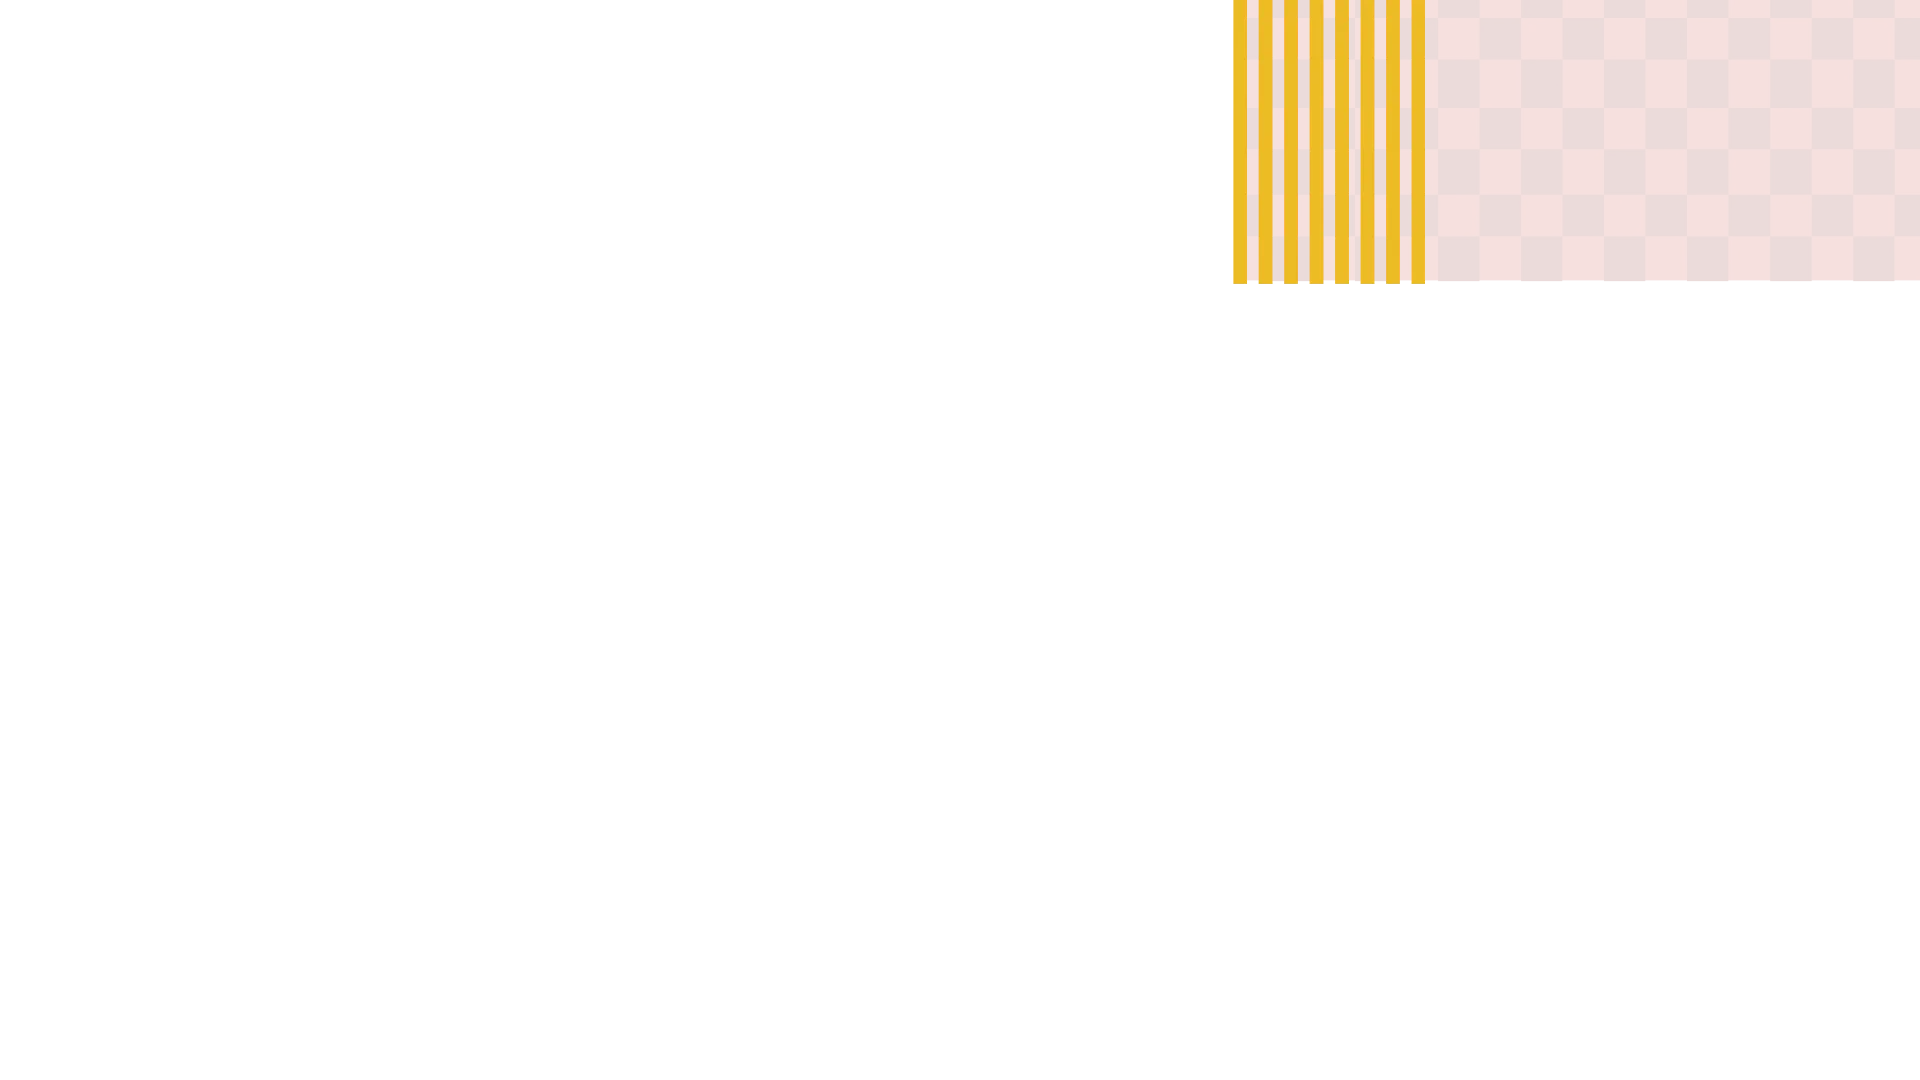
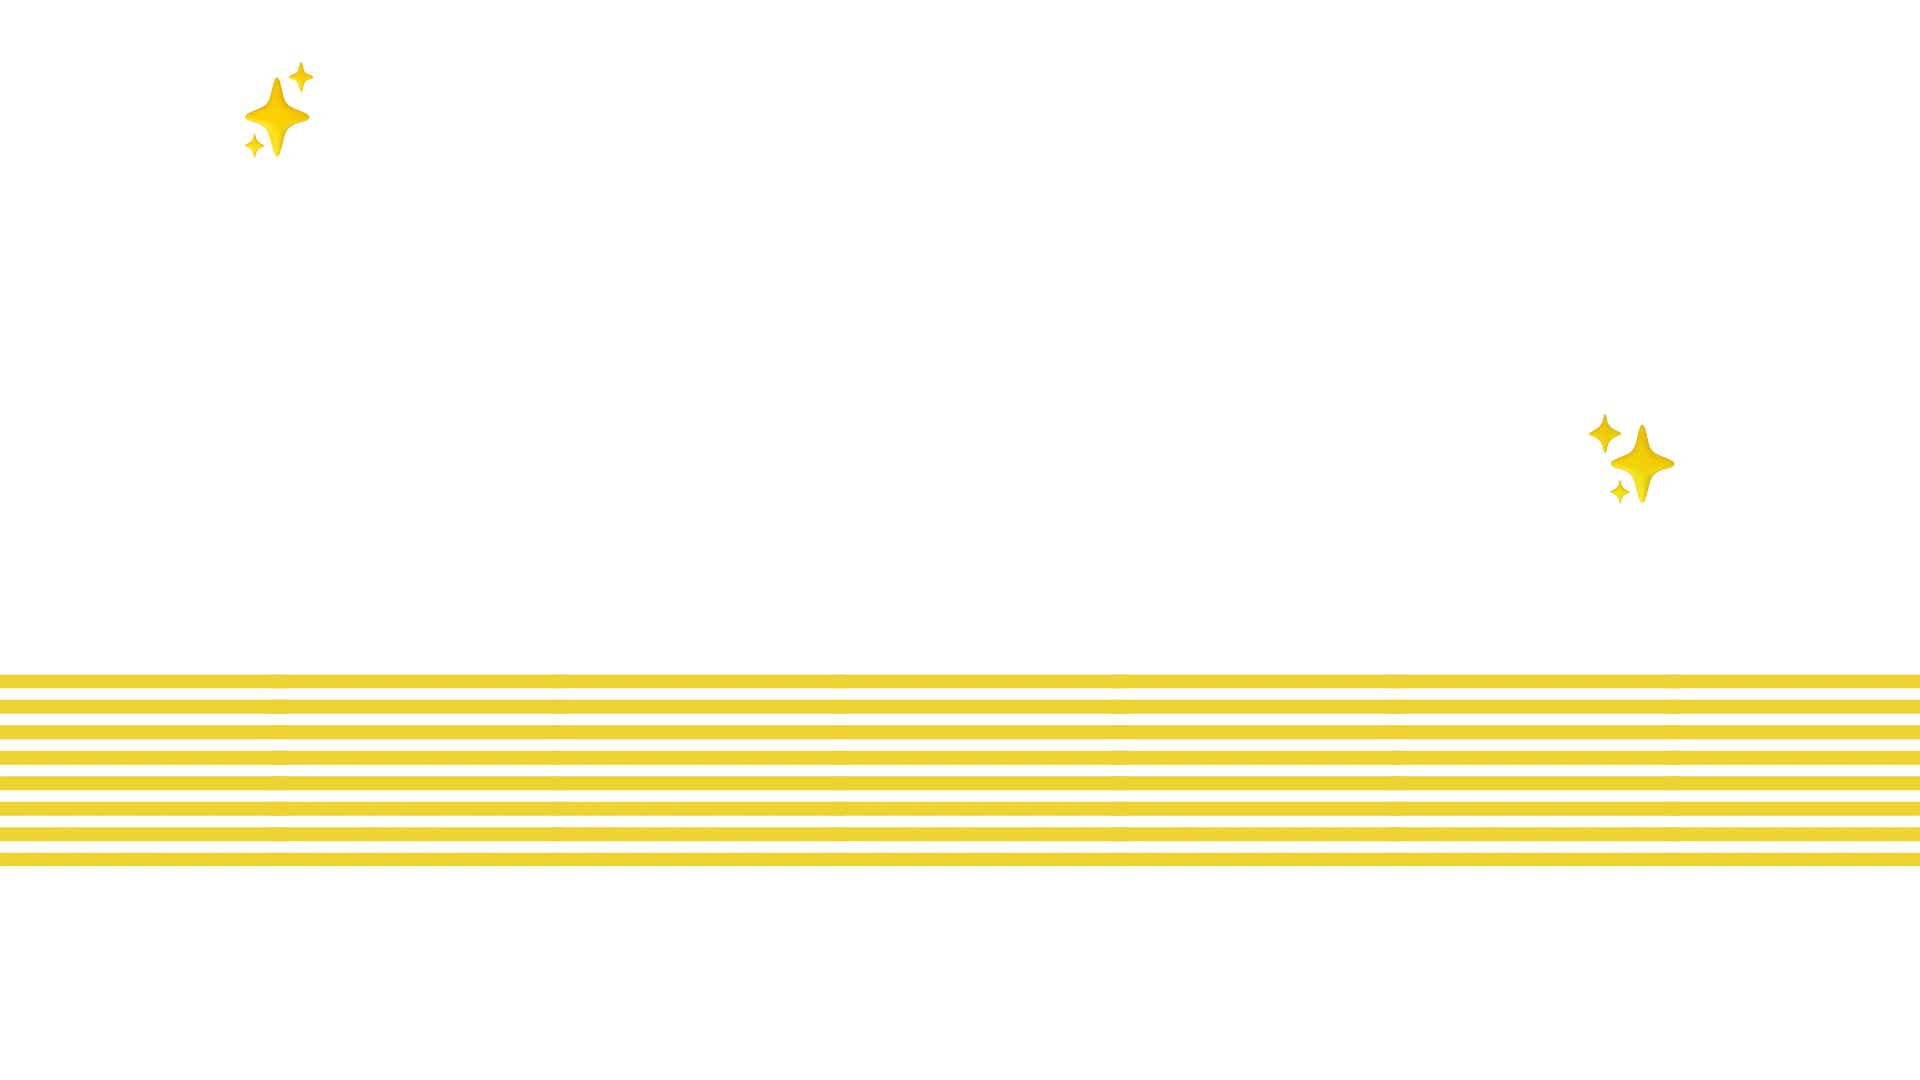
feat(slider): refine SlideOne and implement the rest of the slides - touch up slider styles - add SlideTwo and SlideThree - implement useRandomizedItem() custom hook - refactor utils and related types - update slider background images

diff --git a/app/lib/utils.ts b/app/lib/utils.ts
@@ -1,5 +1,5 @@
 import { useEffect, useState } from "react";
-import { Schedule, Food } from "@/app/lib/types";
+import { Schedule, Food, SortKey } from "@/app/lib/types";
 
 // Custom hook to get the current time, updating every second
 export function useCurrentTime(intervalMs = 1000) {
@@ -19,9 +19,20 @@ export function useCurrentTime(intervalMs = 1000) {
     return now;
 }
 
-export type SortKey = "truckName" | "location" | "minutesAway" | "nextArrival";
+// Custom hook to the randomly picked item from the list
+export function useRandomizedItem<T>(items: T[]): T | null {
+    const [item, setItem] = useState<T | null>(null);
 
-// Function to sort schedule items based on the specified key and direction
+    useEffect(() => {
+        if (items.length === 0) return;
+        const randomPick = Math.floor(Math.random() * items.length);
+        setItem(items[randomPick]);
+    }, []);
+
+    return item;
+}
+
+// Helper to sort schedule items based on the specified key and direction
 export function sortScheduleItems(schedules: Schedule[], sortKey: SortKey, isDesc: boolean): Schedule[] {
 
     const dir = isDesc ? -1 : 1; // Determine sort direction multiplier as a toggle by flipping between -1 and 1
@@ -49,7 +60,7 @@ export function sortScheduleItems(schedules: Schedule[], sortKey: SortKey, isDes
 
 export type ShowedTruckIds = number[] | null;
 
-// Function to parse a comma-separated string of truck IDs into an array of numbers
+// Helper to parse a comma-separated string of truck IDs into an array of numbers
 export function parseTruckIds(value: string | null | undefined): ShowedTruckIds {
     if (!value) return [];
 
@@ -63,7 +74,7 @@ export function parseTruckIds(value: string | null | undefined): ShowedTruckIds 
     return Array.from(new Set(ids));
 }
 
-// Function to filter items based on showed truck IDs, using a provided function to extract the truck ID from each item
+// Helper to filter items based on showed truck IDs, using a provided function to extract the truck ID from each item
 export function filterByTruckIds<T>(
     items: T[],
     showed: ShowedTruckIds,

diff --git a/app/slider/page.tsx b/app/slider/page.tsx
@@ -1,18 +1,20 @@
 'use client';
 import { Swiper, SwiperSlide } from 'swiper/react';
 import { Navigation, Pagination, Scrollbar, A11y, Autoplay } from 'swiper/modules';
-import SlideOne from "../components/slider/SlideOne";
+import SlideOne from '../components/slider/SlideOne';
+import SlideTwo from '../components/slider/SlideTwo';
+import SlideThree from '../components/slider/SlideThree';
 import 'swiper/css';
 import 'swiper/css/navigation';
 import 'swiper/css/pagination';
 import 'swiper/css/scrollbar';
-import { schedules } from '../lib/data';
-import { nextFoodTruck } from '@/app/lib/utils';
-
-
+import { schedules, foods } from '../lib/data';
+import { recommendFoods, nextFoodTruck } from "@/app/lib/utils";
 
 export default function SliderPage() {
     const nextTrucks = nextFoodTruck(schedules);
+    const hotItems = recommendFoods(foods);
+
     return (
         <div className="swiper relative mt-[150px] md:mt-[210px] mb-8 md:mb-2 max-w-sm md:max-w-5xl px-0">
             <Swiper
@@ -21,14 +23,13 @@ export default function SliderPage() {
                 slidesPerView={1}
                 navigation
                 pagination={{ clickable: true }}
-                /* autoplay={{ delay: 5000, disableOnInteraction: false }} */
+                autoplay={{ delay: 6000, disableOnInteraction: true }}
                 onSwiper={(swiper) => console.log(swiper)}
                 onSlideChange={() => console.log('slide change')}
             >
                 <SwiperSlide><SlideOne nextTrucks={nextTrucks} /></SwiperSlide>
-                <SwiperSlide>Slide 2</SwiperSlide>
-                <SwiperSlide>Slide 3</SwiperSlide>
-                <SwiperSlide>Slide 4</SwiperSlide>
+                <SwiperSlide><SlideTwo hotItems={hotItems} /></SwiperSlide>
+                <SwiperSlide><SlideThree /></SwiperSlide>
             </Swiper>
         </div>
     );

diff --git a/app/components/slider/SlideTwo.tsx b/app/components/slider/SlideTwo.tsx
@@ -1,0 +1,38 @@
+"use client";
+import ImageWrapper from '@/app/components/ui/ImageWrapper';
+import { Food } from "@/app/lib/types";
+import { useRandomizedItem } from '@/app/lib/utils';
+
+type Props = {
+    hotItems: Food[];
+};
+
+export default function SlideTwo({ hotItems }: Props) {
+
+    // Get randomized hot item for the current slide
+    const hotItem = useRandomizedItem(hotItems);
+
+    // If hot item is not available, stop proceeding
+    if (!hotItem) return;
+
+    return (
+        <div className="slide slide-two bg-stone-800 mt-8 pl-0 md:pl-47 text-center md:text-right flex">
+            <div className="content w-[43%] mr-5">
+                <h3 className="text-center md:text-left text-3xl font-bold py-4">Hottest Item</h3>
+                <p className="text-center md:text-left text-2xl" >{hotItem.foodName}</p>
+                <p className='mt-2 text-md text-center md:text-left max-w-xs'>{hotItem.description}</p>
+                <p className="text-center md:text-left text-yellow-100 italic pt-2">@{hotItem.truckName}</p>
+                <p className='mt-2 text-lg text-center md:text-left font-bold text-amber-400'>Price: ${hotItem.price.toFixed(2)}</p>
+            </div>
+            <div className="flex justify-end items-end pr-33 pb-33">
+                <ImageWrapper
+                    className='food-image inline-flex'
+                    src={hotItem.foodImg}
+                    alt={`${hotItem.foodName} image`}
+                    width={200}
+                    height={200}
+                />
+            </div>
+        </div>
+    );
+}

diff --git a/app/components/slider/SlideThree.tsx b/app/components/slider/SlideThree.tsx
@@ -1,0 +1,34 @@
+"use client";
+import Link from "next/link";
+import ImageWrapper from '@/app/components/ui/ImageWrapper';
+import { trucks } from '@/app/lib/data';
+import { useRandomizedItem } from '@/app/lib/utils';
+
+export default function SlideThree() {
+
+    // Get randomized featured truck
+    const featuredTruck = useRandomizedItem(trucks);
+
+    // If featured truck is not available, stop proceeding
+    if (!featuredTruck) return;
+
+    return (
+        <div className="slide slide-two flex flex-row bg-stone-800 mt-8 pl-0 md:pl-47 text-center md:text-left">
+            <div className="content w-[45%] mr-5">
+                <h3 className="text-center md:text-left text-3xl font-bold py-4">Featured Trucks</h3>
+                <p className="w-auto text-center md:text-left text-yellow-100 italic">@{featuredTruck.truckName}</p>
+                <p className="text-center md:text-left text-white italic pt-0 md:pt-3">{featuredTruck.description}</p>
+                <Link href="/#about" className="inline-block w-auto text-sm md:text-lg text-white font-bold bg-orange-700 rounded-lg hover:bg-orange-500 px-4 py-3 mt-4">Trucks</Link>
+            </div>
+            <div className="featured-truck flex-col items-end place-content-start mt-10">
+                <ImageWrapper
+                    className='logo-img'
+                    src={featuredTruck.logo}
+                    alt={`${featuredTruck.truckName} image`}
+                    width={200}
+                    height={200}
+                />
+            </div>
+        </div>
+    );
+}

diff --git a/app/components/slider/SlideOne.tsx b/app/components/slider/SlideOne.tsx
@@ -9,7 +9,7 @@ export default function SlideOne({ nextTrucks }: Props) {
     const [truckOne, truckTwo] = nextTrucks;
 
     return (
-        <div className="slide-one bg-stone-800 mt-8 pl-0 md:pl-47 text-center md:text-right">
+        <div className="slide slide-one bg-stone-800 mt-8 pl-0 md:pl-47 text-center md:text-right">
             <h1 className="text-center md:text-left text-3xl font-bold py-4">Next Trucks</h1>
             <p className="text-center md:text-left text-yellow-100 italic">@{truckOne.truckName} → arriving <strong>{truckOne.location}</strong> in <strong className="text-orange-500">10</strong> mins</p>
             <p className="text-center md:text-left text-yellow-100 italic pt-0 md:pt-3">@{truckTwo.truckName} → arriving <strong>{truckTwo.location}</strong> in <strong className="text-orange-500">10</strong> mins</p>

diff --git a/app/globals.css b/app/globals.css
@@ -52,7 +52,12 @@ body {
   border: 4px solid black;
 }
 
-.hot-menu-card {
+.featured-truck .img-wrapper img {
+  margin: 0;
+  border-radius: 100%;
+}
+
+.hot-menu-card, .content {
   white-space: pre-wrap;
 }
 
@@ -74,12 +79,19 @@ body {
   border-radius: 100%;
 }
 
-.slide-one {
-  background-image: url('/images/slides/hero-bg-1.webp');
+.slide {
   background-position: top center;
   background-repeat: no-repeat;
   background-size: cover;
   height: 500px;
+}
+
+.slide-one {
+  background-image: url('/images/slides/hero-bg-1.webp');
+}
+
+.slide-two {
+  background-image: url('/images/slides/hero-bg-2.webp');
 }
 
 @media only screen and (width <= 855px) {    

diff --git a/app/components/schedule/ScheduleGrid.tsx b/app/components/schedule/ScheduleGrid.tsx
@@ -3,7 +3,8 @@ import { Schedule } from '@/app/lib/types';
 import ScheduleCard from './ScheduleCard';
 import { useMemo, useState } from "react";
 import { useSearchParams } from 'next/navigation';
-import { sortScheduleItems, SortKey, parseTruckIds, filterByTruckIds } from "@/app/lib/utils";
+import { SortKey } from '@/app/lib/types';
+import { sortScheduleItems, parseTruckIds, filterByTruckIds } from "@/app/lib/utils";
 
 type Props = {
     schedules: Schedule[];

diff --git a/app/lib/types.ts b/app/lib/types.ts
@@ -22,3 +22,5 @@ export interface Schedule {
     location: string;
     minutesAway: number;
 }
+
+export type SortKey = "truckName" | "location" | "minutesAway" | "nextArrival";
